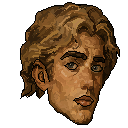
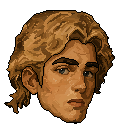
added character sprites to game

diff --git a/src/ui/renderer.cpp b/src/ui/renderer.cpp
@@ -1,9 +1,11 @@
 #include "renderer.h"
 #include "raylib.h"
 #include <algorithm>
+#include <numeric>
 #include <cmath>
 #include <cstdio>
 
+//assets hardcoded in for now, will have to fix later
 Renderer::Renderer(const AppConfig& cfg) : config(cfg) {
     camera.zoom     = 1.0f;
     camera.rotation = 0.0f;
@@ -23,12 +25,17 @@ Renderer::Renderer(const AppConfig& cfg) : config(cfg) {
            tileset.id, tileset.width, tileset.height);
 
     load_portraits();
+    load_sprites();
 }
 
 Renderer::~Renderer() {
     if (hud_texture.id != 0) UnloadTexture(hud_texture);
     if (tileset.id != 0)     UnloadTexture(tileset);
     for (auto& [name, tex] : portraits)
+        if (tex.id != 0) UnloadTexture(tex);
+    for (auto& [name, tex] : unit_sprites)
+        if (tex.id != 0) UnloadTexture(tex);
+    for (auto& [name, tex] : enemy_sprites)
         if (tex.id != 0) UnloadTexture(tex);
 }
 
@@ -43,10 +50,28 @@ void Renderer::load_portraits() {
     load("Medic",        "src/assets/portraits/pirate_04.png");
 }
 
+void Renderer::load_sprites() {
+    auto load = [&](std::unordered_map<std::string, Texture2D>& map,
+                    const std::string& key, const std::string& path) {
+        Texture2D tex = LoadTexture(path.c_str());
+        if (tex.id != 0) map[key] = tex;
+        printf("[RENDERER] sprite '%s' id=%d\n", key.c_str(), tex.id);
+    };
+
+    load(unit_sprites,  "Bosun",        "src/assets/sprites/bosun_sprite.png");
+    load(unit_sprites,  "Sharpshooter", "src/assets/sprites/sharpshooter_sprite.png");
+    load(unit_sprites,  "Medic",        "src/assets/sprites/medic_sprite.png");
+    load(unit_sprites,  "Swashbuckler", "src/assets/sprites/swashbuckler_sprite.png");
+
+    load(enemy_sprites, "E", "src/assets/sprites/soldier.png");
+    load(enemy_sprites, "G", "src/assets/sprites/guard.png");
+    load(enemy_sprites, "C", "src/assets/sprites/capt_vane.png");
+}
+
 void Renderer::draw_tile(int tile_id, int x, int y) {
     if (tile_id <= 0 || tileset.id == 0) return;
-    int idx   = tile_id - 1;          // 1-based → 0-based
-    int src_x = idx * 32;             // horizontal strip, 32px per tile
+    int idx   = tile_id - 1;
+    int src_x = idx * 32;
     DrawTexturePro(tileset,
         { (float)src_x, 0, 32, 32 },
         { (float)x, (float)y, (float)config.tile_size, (float)config.tile_size },
@@ -135,7 +160,6 @@ void Renderer::draw_map(const GameState& state) {
             if (tileset.id != 0 && t.tile_id > 0) {
                 draw_tile(t.tile_id, x, y);
             } else {
-                // fallback colored rectangles
                 switch (t.type) {
                     case TILE_WALL:
                         DrawRectangle(x, y, tile_size, tile_size, GRAY); break;
@@ -259,46 +283,97 @@ void Renderer::draw_target_highlights(const GameState& state) {
 void Renderer::draw_units(const GameState& state) {
     int tile_size = config.tile_size;
 
+    // collect all draw calls and sort south to north so southern units draw on top
+    struct DrawCall { int row; bool is_player; int index; };
+    std::vector<DrawCall> calls;
+
     for (int i = 0; i < (int)state.enemies.size(); i++) {
         if (!state.enemies[i].is_alive()) continue;
         if (!state.spotted[i]) continue;
-
-        const enemy& e = state.enemies[i];
-        int x = e.get_x_pos() * tile_size;
-        int y = e.get_y_pos() * tile_size;
-        DrawRectangle(x, y, tile_size, tile_size, BLUE);
-
-        if (i == state.target_index && state.mode != ActionMode::HEAL)
-            DrawRectangleLines(x - 2, y - 2, tile_size + 4, tile_size + 4, YELLOW);
-
-        for (int j = 0; j < e.get_max_hp(); j++) {
-            Color pip = j < e.get_hp() ? GREEN : DARKGRAY;
-            DrawRectangle(x + 4 + j * 10, y - 10, 8, 6, pip);
-        }
+        calls.push_back({state.enemies[i].get_y_pos(), false, i});
     }
-
     for (int i = 0; i < (int)state.players.size(); i++) {
         if (!state.players[i].is_alive()) continue;
-        const unit& p           = state.players[i];
-        int         x           = p.get_x_pos() * tile_size;
-        int         y           = p.get_y_pos() * tile_size;
-        bool        is_selected = (i == state.selected_player);
+        calls.push_back({state.players[i].get_y_pos(), true, i});
+    }
+    std::sort(calls.begin(), calls.end(), [](const DrawCall& a, const DrawCall& b) {
+        return a.row < b.row;
+    });
 
-        Color unit_color = is_selected ? RED : Color{150, 30, 30, 255};
-        DrawRectangle(x, y, tile_size, tile_size, unit_color);
+    for (auto& call : calls) {
+        if (!call.is_player) {
+            const enemy& e = state.enemies[call.index];
+            int tx = e.get_x_pos() * tile_size;
+            int ty = e.get_y_pos() * tile_size;
 
-        if (is_selected)
-            DrawRectangleLines(x, y, tile_size, tile_size, WHITE);
+            // determine enemy type by max_hp
+            std::string ekey = "E";
+            int hp = e.get_max_hp();
+            if (hp >= 10)     ekey = "C";
+            else if (hp >= 5) ekey = "G";
 
-        if (state.mode == ActionMode::HEAL && i == state.target_index)
-            DrawRectangleLines(x - 2, y - 2, tile_size + 4, tile_size + 4, GREEN);
+            auto it = enemy_sprites.find(ekey);
+            if (it != enemy_sprites.end() && it->second.id != 0) {
+                int dx = tx - (SPR_W - tile_size) / 2;
+                int dy = ty - (SPR_H - tile_size);
+                DrawTexturePro(it->second,
+                    { 0, 0, (float)SPR_W, (float)SPR_H },
+                    { (float)dx, (float)dy, (float)SPR_W, (float)SPR_H },
+                    { 0, 0 }, 0.0f, WHITE);
+            } else {
+                DrawRectangle(tx, ty, tile_size, tile_size, BLUE);
+            }
 
-        if (p.is_on_overwatch())
-            DrawText("OW", x + 8, y + 8, 12, SKYBLUE);
+            if (call.index == state.target_index && state.mode != ActionMode::HEAL)
+                DrawRectangleLines(tx - 2, ty - 2, tile_size + 4, tile_size + 4, YELLOW);
 
-        for (int j = 0; j < p.get_max_hp(); j++) {
-            Color pip = j < p.get_hp() ? GREEN : DARKGRAY;
-            DrawRectangle(x + 4 + j * 10, y - 10, 8, 6, pip);
+            // HP pips above sprite
+            int pip_y = ty - (SPR_H - tile_size) - 8;
+            for (int j = 0; j < e.get_max_hp(); j++) {
+                Color pip = j < e.get_hp() ? GREEN : DARKGRAY;
+                DrawRectangle(tx + 2 + j * 5, pip_y, 4, 4, pip);
+            }
+
+        } else {
+            const unit& p    = state.players[call.index];
+            int tx = p.get_x_pos() * tile_size;
+            int ty = p.get_y_pos() * tile_size;
+            bool is_selected = (call.index == state.selected_player);
+
+            const std::string& pname = call.index < (int)state.player_names.size()
+                                     ? state.player_names[call.index] : "";
+            auto it = unit_sprites.find(pname);
+
+            if (it != unit_sprites.end() && it->second.id != 0) {
+                int dx = tx - (SPR_W - tile_size) / 2;
+                int dy = ty - (SPR_H - tile_size);
+                // dim unselected units slightly
+                Color tint = is_selected ? WHITE : Color{200, 200, 200, 255};
+                DrawTexturePro(it->second,
+                    { 0, 0, (float)SPR_W, (float)SPR_H },
+                    { (float)dx, (float)dy, (float)SPR_W, (float)SPR_H },
+                    { 0, 0 }, 0.0f, tint);
+            } else {
+                DrawRectangle(tx, ty, tile_size, tile_size,
+                              is_selected ? RED : Color{150, 30, 30, 255});
+            }
+
+            // selection ring at tile level
+            if (is_selected)
+                DrawRectangleLines(tx - 1, ty - 1, tile_size + 2, tile_size + 2, WHITE);
+
+            if (state.mode == ActionMode::HEAL && call.index == state.target_index)
+                DrawRectangleLines(tx - 2, ty - 2, tile_size + 4, tile_size + 4, GREEN);
+
+            if (p.is_on_overwatch())
+                DrawText("OW", tx + 2, ty + 2, 11, SKYBLUE);
+
+            // HP pips above sprite
+            int pip_y = ty - (SPR_H - tile_size) - 8;
+            for (int j = 0; j < p.get_max_hp(); j++) {
+                Color pip = j < p.get_hp() ? GREEN : DARKGRAY;
+                DrawRectangle(tx + 2 + j * 5, pip_y, 4, 4, pip);
+            }
         }
     }
 }
@@ -460,11 +535,11 @@ void Renderer::draw_hud(const GameState& state) {
         DrawRectangleLines(bx, by, BTN_W, BTN_H, border);
 
         if (icons.has(ab.get_id())) {
-            Texture2D tex      = icons.get(ab.get_id());
+            Texture2D tex       = icons.get(ab.get_id());
             int       icon_size = 56;
-            int       icon_x   = bx + BTN_W / 2 - icon_size / 2;
-            int       icon_y   = by + 2;
-            Color     tint     = unavailable ? Color{120, 120, 120, 180} : WHITE;
+            int       icon_x    = bx + BTN_W / 2 - icon_size / 2;
+            int       icon_y    = by + 2;
+            Color     tint      = unavailable ? Color{120, 120, 120, 180} : WHITE;
             DrawTexturePro(tex,
                 { 0, 0, (float)tex.width, (float)tex.height },
                 { (float)icon_x, (float)icon_y, (float)icon_size, (float)icon_size },

diff --git a/src/ui/renderer.h b/src/ui/renderer.h
@@ -5,6 +5,7 @@
 #include "icon_registry.h"
 #include "raylib.h"
 #include <unordered_map>
+#include <numeric>
 #include <string>
 
 class Renderer {
@@ -18,12 +19,15 @@ private:
     const AppConfig& config;
     Camera2D         camera = { {0,0}, {0,0}, 0.0f, 1.0f };
     IconRegistry     icons;
-    Texture2D        hud_texture  = {};
-    Texture2D        tileset      = {};  // tileset_03.png
+    Texture2D        hud_texture = {};
+    Texture2D        tileset     = {};
 
     std::unordered_map<std::string, Texture2D> portraits;
+    std::unordered_map<std::string, Texture2D> unit_sprites;
+    std::unordered_map<std::string, Texture2D> enemy_sprites;
 
     void load_portraits();
+    void load_sprites();
     void draw_portrait(const GameState& state, int bar_y);
     void draw_tile(int tile_id, int x, int y);
 
@@ -36,12 +40,14 @@ private:
     void draw_hud(const GameState& state);
     void draw_game_over(const GameState& state);
 
-    static const int BAR_HEIGHT     = 100;
-    static const int BTN_W          = 90;
-    static const int BTN_H          = 90;
-    static const int BTN_Y_OFFSET   = 5;
-    static const int BTN_START_X    = 350;
-    static const int BTN_GAP        = 10;
-    static const int PORTRAIT_SIZE  = 84;
-    static const int PORTRAIT_X     = 8;
+    static const int BAR_HEIGHT    = 100;
+    static const int BTN_W         = 90;
+    static const int BTN_H         = 90;
+    static const int BTN_Y_OFFSET  = 5;
+    static const int BTN_START_X   = 350;
+    static const int BTN_GAP       = 10;
+    static const int PORTRAIT_SIZE = 84;
+    static const int PORTRAIT_X    = 8;
+    static const int SPR_W         = 48;
+    static const int SPR_H         = 96;
 };